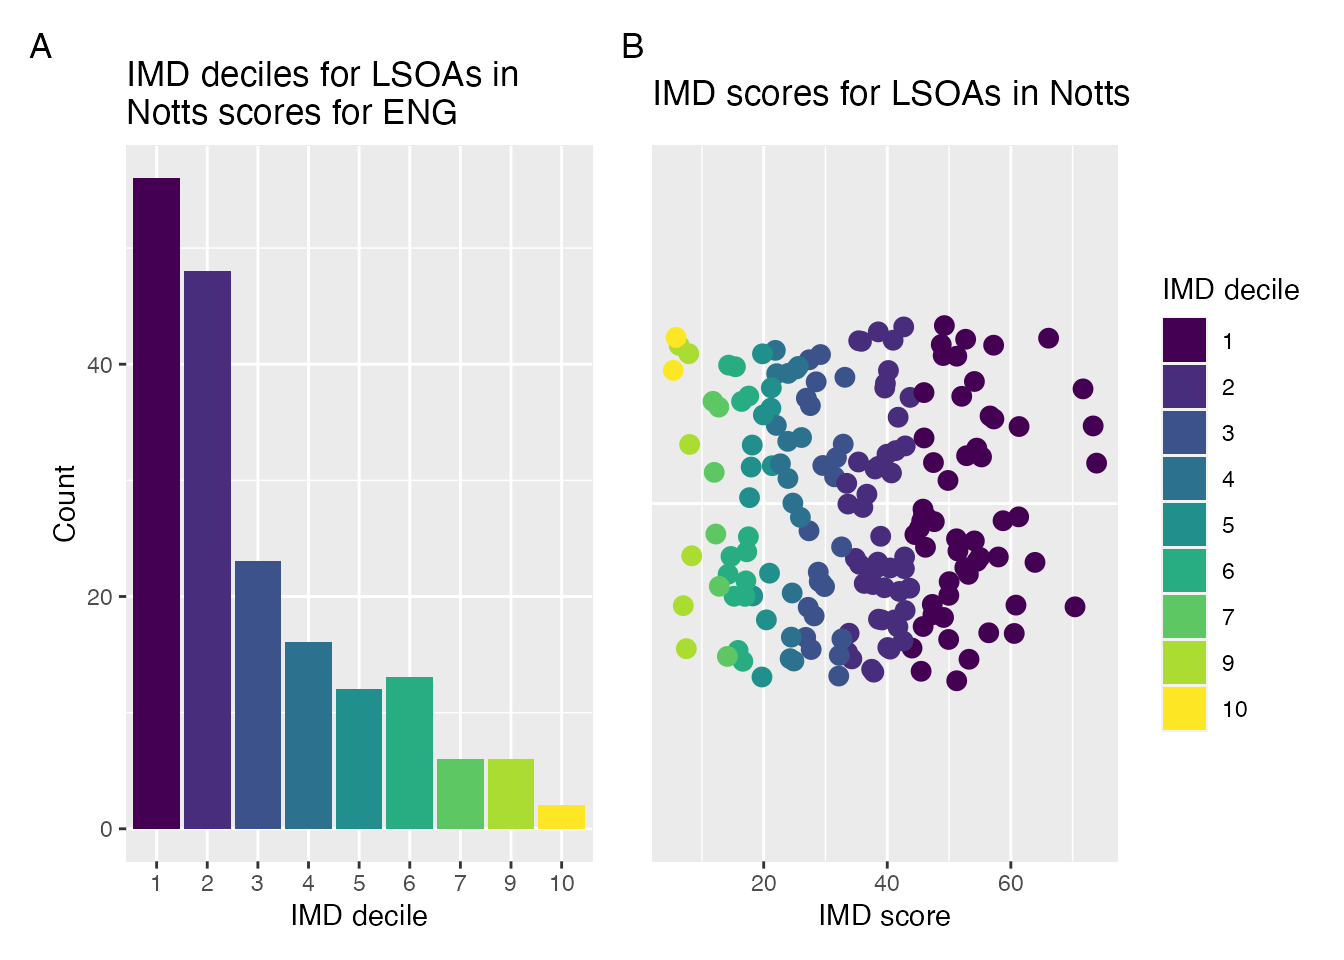
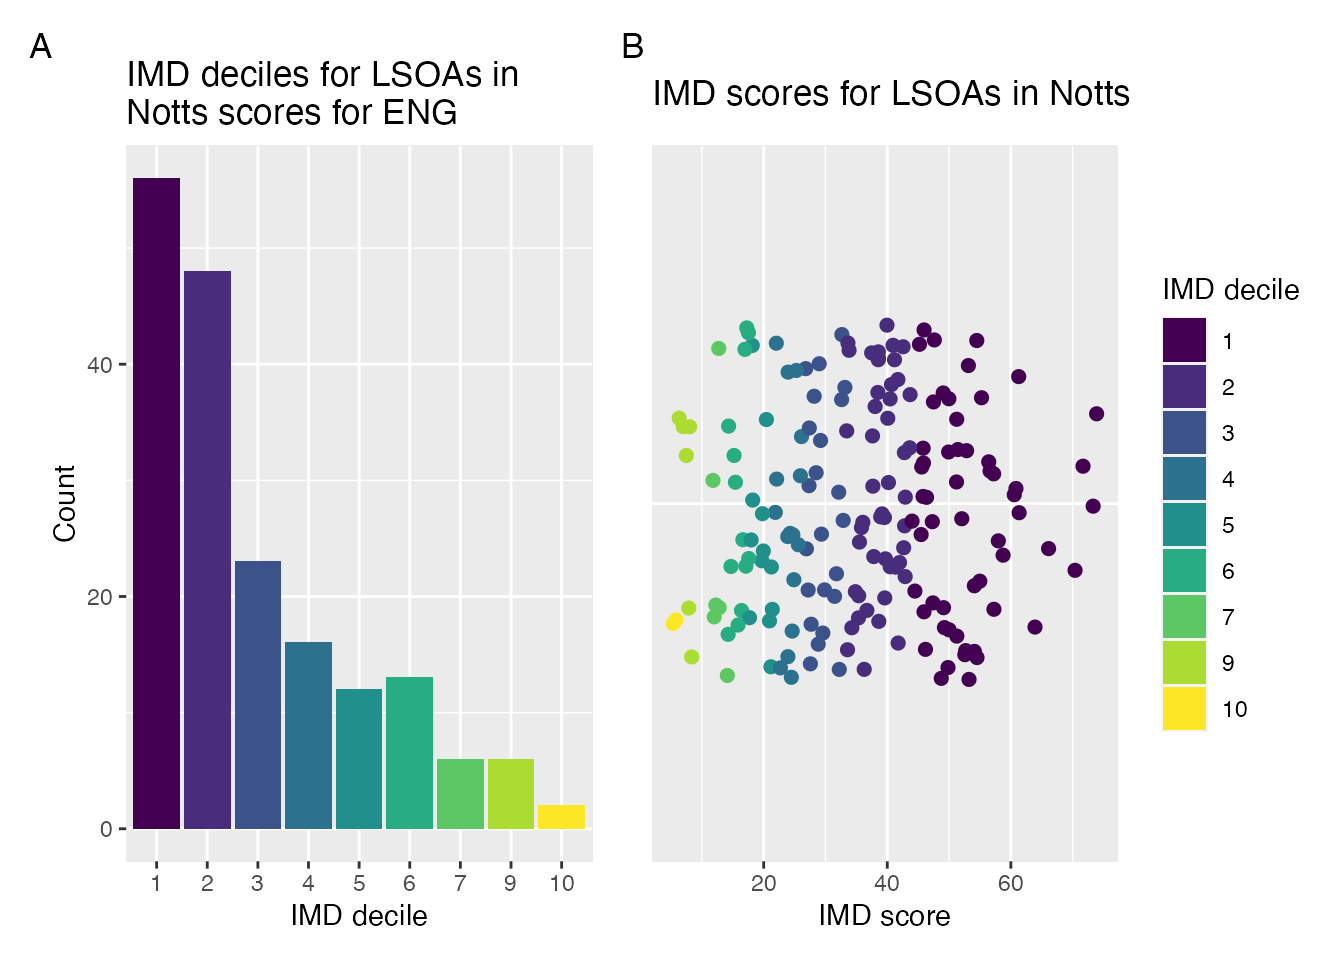
update vignette

Changed region(s): [[0.4688, 0.3125, 0.8438, 0.7188]]

diff --git a/docs/articles/calc-imd-ranks-within-la.html b/docs/articles/calc-imd-ranks-within-la.html
@@ -96,7 +96,7 @@
 <span class="kw"><a href="https://rdrr.io/r/base/library.html">library</a></span><span class="op">(</span><span class="va"><a href="https://ggplot2.tidyverse.org">ggplot2</a></span><span class="op">)</span>
 <span class="kw"><a href="https://rdrr.io/r/base/library.html">library</a></span><span class="op">(</span><span class="va"><a href="https://tidyr.tidyverse.org">tidyr</a></span><span class="op">)</span>
 <span class="kw"><a href="https://rdrr.io/r/base/library.html">library</a></span><span class="op">(</span><span class="va"><a href="https://patchwork.data-imaginist.com">patchwork</a></span><span class="op">)</span></code></pre></div>
-<p>Indices of Multiple Deprivation (IMD) describe the deprivation of Lower layer Super Output Areas (LSOAs) with scores ranging from 0.541 to 92.735 for the year 2019. Lower IMD scores indicate ‘less deprivation’ areas while higher IMD scores indicate ‘more deprivation.’ These scores can be grouped based on their rank, usually 10 groups (deciles) are calculated based on the IMD scores of the entire country. For the decile scores, lower deciles are representing ‘more deprived’ areas while higher deciles represent ‘less deprived’ areas. This can be confusing because IMD scores and IMD deciles are scored in opposite directions.</p>
+<p><a href="https://www.gov.uk/government/statistics/english-indices-of-deprivation-2019">Indices of Multiple Deprivation (IMD)</a> describe the deprivation of <a href="https://data.gov.uk/dataset/c481f2d3-91fc-4767-ae10-2efdf6d58996/lower-layer-super-output-areas-lsoas">Lower layer Super Output Areas (LSOAs)</a> with scores ranging from 0.541 to 92.735 for the year 2019. Lower IMD scores indicate ‘less deprivation’ areas while higher IMD scores indicate ‘more deprivation.’ These scores can be grouped based on their rank, usually 10 groups (deciles) are calculated based on the IMD scores of the entire country. For the decile scores, lower deciles are representing ‘more deprived’ areas while higher deciles represent ‘less deprived’ areas. This can be confusing because IMD scores and IMD deciles are scored in opposite directions.</p>
 <p>The distribution of the IMD deciles calculated on data from the entire country can be relatively unequal within some Local Authorities (LAs). This example illustrates this for the local authority “Nottingham” (la_code = “E06000018”).</p>
 <div class="sourceCode" id="cb2"><pre class="downlit sourceCode r">
 <code class="sourceCode R"><span class="co"># Plot deciles ----</span>
@@ -113,7 +113,7 @@
   <span class="fu"><a href="https://dplyr.tidyverse.org/reference/filter.html">filter</a></span><span class="op">(</span><span class="va">la_code</span> <span class="op">==</span> <span class="st">"E06000018"</span><span class="op">)</span> <span class="op">%&gt;%</span> 
   <span class="fu"><a href="https://ggplot2.tidyverse.org/reference/ggplot.html">ggplot</a></span><span class="op">(</span><span class="fu"><a href="https://ggplot2.tidyverse.org/reference/aes.html">aes</a></span><span class="op">(</span>x <span class="op">=</span> <span class="va">imd_score</span>, y <span class="op">=</span> <span class="va">la_name</span><span class="op">)</span><span class="op">)</span> <span class="op">+</span>
   <span class="fu"><a href="https://ggplot2.tidyverse.org/reference/geom_jitter.html">geom_jitter</a></span><span class="op">(</span><span class="fu"><a href="https://ggplot2.tidyverse.org/reference/aes.html">aes</a></span><span class="op">(</span>colour <span class="op">=</span> <span class="fu"><a href="https://rdrr.io/r/base/factor.html">factor</a></span><span class="op">(</span><span class="va">imd_decile</span><span class="op">)</span><span class="op">)</span>,
-              alpha <span class="op">=</span> <span class="fl">1</span>, height <span class="op">=</span> <span class="fl">.3</span>, size <span class="op">=</span> <span class="fl">3</span><span class="op">)</span> <span class="op">+</span>
+              alpha <span class="op">=</span> <span class="fl">1</span>, height <span class="op">=</span> <span class="fl">.3</span>, size <span class="op">=</span> <span class="fl">2</span><span class="op">)</span> <span class="op">+</span>
   <span class="fu"><a href="https://ggplot2.tidyverse.org/reference/labs.html">labs</a></span><span class="op">(</span>x <span class="op">=</span> <span class="st">"IMD score"</span>, y <span class="op">=</span> <span class="cn">NULL</span>, colour <span class="op">=</span> <span class="cn">NULL</span><span class="op">)</span> <span class="op">+</span>
   <span class="fu"><a href="https://ggplot2.tidyverse.org/reference/scale_viridis.html">scale_colour_viridis_d</a></span><span class="op">(</span><span class="op">)</span> <span class="op">+</span>
   <span class="fu"><a href="https://ggplot2.tidyverse.org/reference/theme.html">theme</a></span><span class="op">(</span>legend.position <span class="op">=</span> <span class="st">"none"</span>,
@@ -130,7 +130,7 @@
 <div id="calculate-imd-deciles-within-local-authorities" class="section level2">
 <h2 class="hasAnchor">
 <a href="#calculate-imd-deciles-within-local-authorities" class="anchor"></a>Calculate IMD deciles within Local Authorities</h2>
-<p>To recalculate IMD deciles for Local Authorities the data needs to be grouped by Local Authority and year of the IMD score (‘<code><a href="https://dplyr.tidyverse.org/reference/group_by.html">group_by(la_code, imd_year)</a></code>’). Next, calculate deciles using the function ‘<code><a href="https://dplyr.tidyverse.org/reference/ranking.html">dplyr::ntile()</a></code>’ by specifying ‘<code>n = 10</code>.’</p>
+<p>To recalculate IMD deciles for Local Authorities the data needs to be grouped by Local Authority and year of the IMD score (‘<code><a href="https://dplyr.tidyverse.org/reference/group_by.html">group_by(la_code, imd_year)</a></code>’). Next, calculate deciles using the function ‘<code><a href="https://dplyr.tidyverse.org/reference/ranking.html">dplyr::ntile()</a></code>’ by specifying ‘<code>n = 10</code>.’ To calculate quintiles (5 groups) the argument would need to be changed to <code>n = 5</code>.</p>
 <div class="sourceCode" id="cb3"><pre class="downlit sourceCode r">
 <code class="sourceCode R"><span class="co"># Calculate IMD decile ranks (n = 10) for local authorities ----</span>
 <span class="va">imd_by_la</span> <span class="op">&lt;-</span> <span class="va">imd</span> <span class="op">%&gt;%</span> 
@@ -173,24 +173,6 @@
 <h2 class="hasAnchor">
 <a href="#additional-resources" class="anchor"></a>Additional resources</h2>
 <p>A blog post by <span class="citation"><a href="#ref-Turner2021IMD" role="doc-biblioref">Turner</a> (<a href="#ref-Turner2021IMD" role="doc-biblioref">2021</a>)</span> also discusses how to calculate local IMD scores illustrating examples in SQL and R.</p>
-</div>
-<div id="todos" class="section level2">
-<h2 class="hasAnchor">
-<a href="#todos" class="anchor"></a>TODOs</h2>
-<ul class="task-list">
-<li>
-<input type="checkbox" disabled>
-Add more IMD references and website links</li>
-<li>
-<input type="checkbox" disabled>
-Describe and discuss more IMD details</li>
-<li>
-<input type="checkbox" disabled>
-Show second example?</li>
-<li>
-<input type="checkbox" disabled>
-Discuss the methodological advantages and disadvantages</li>
-</ul>
 </div>
 <div id="references" class="section level2 unnumbered">
 <h2 class="hasAnchor">
